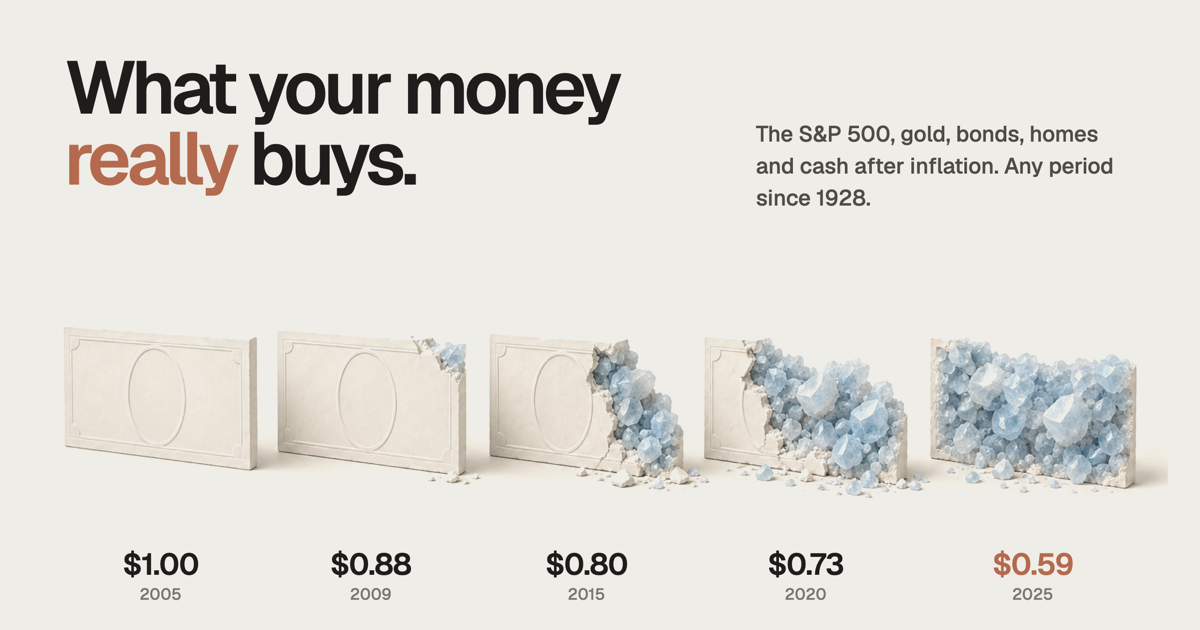
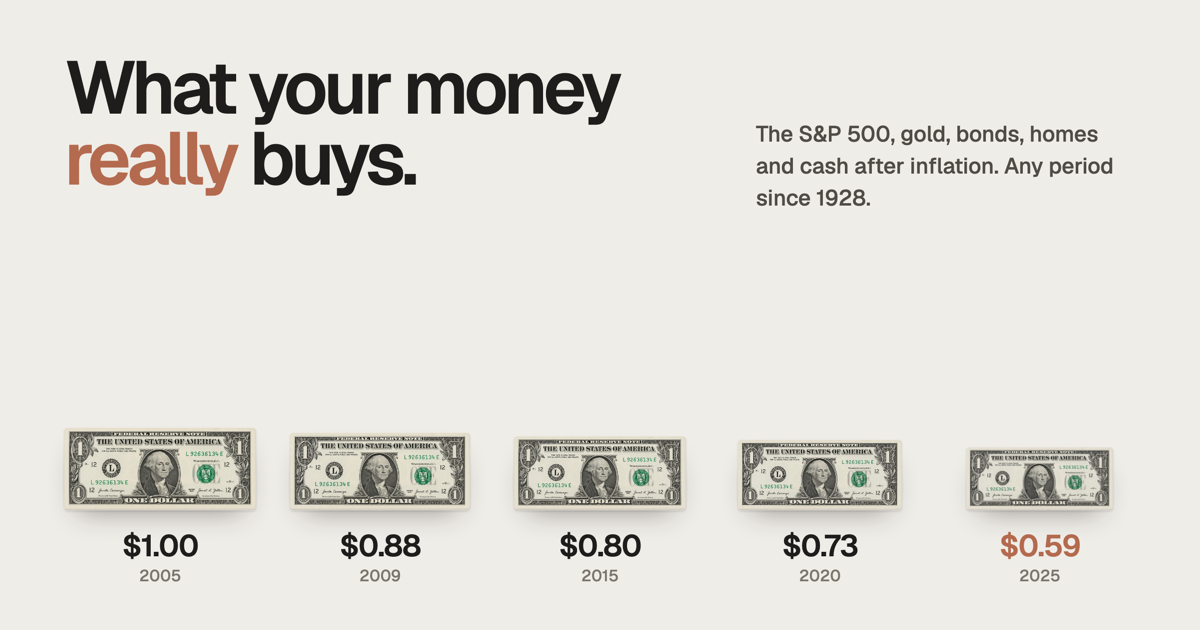
Hero: real dollar bills that shrink with buying power
Replace the plaster-and-crystal banknote image with one photorealistic
one-dollar bill (generated with Codex, published at 600 px wide), shown
five times. Each bill's area equals what one dollar from the start year
still buys at that point in the chosen period, and it loses a little
color as it loses value. The bills resize when the period changes.

Changed region(s): [[0.0308, 0.5429, 0.9867, 0.9651], [0.0617, 0.5127, 0.0925, 0.5429]]

diff --git a/index.html b/index.html
@@ -77,16 +77,15 @@
                 <p class="intro" id="introText">Prices rose 70% from 2005 to 2025. A dollar kept as cash lost 41% of its buying power. Here is what kept up.</p>
             </div>
             <figure class="sequence">
-                <img id="heroImg" src="assets/img/sequence.jpg" srcset="assets/img/sequence-800.jpg 800w, assets/img/sequence.jpg 1536w" sizes="(max-width: 1080px) 100vw, 1016px" width="1536" height="380" alt="Five white plaster banknotes in a row. The first is whole; each next one has eroded more into pale blue crystal, until the last is almost all crystal.">
-                <!-- What one dollar from the start year buys at five points in the period, one under each note. -->
-                <ol class="dollar-steps" id="dollarSteps" aria-label="What one dollar buys over the period">
-                    <li style="left: 11.3%"><strong>$1.00</strong><span>2005</span></li>
-                    <li style="left: 29.8%"><strong>$0.88</strong><span>2009</span></li>
-                    <li style="left: 48.8%"><strong>$0.81</strong><span>2014</span></li>
-                    <li style="left: 68.1%"><strong>$0.73</strong><span>2020</span></li>
-                    <li style="left: 88.1%"><strong>$0.59</strong><span>2025</span></li>
+                <!-- One dollar bill at five points in the period. Each bill's area is what one dollar from the start year still buys. -->
+                <ol class="dollar-steps" id="dollarSteps" aria-label="What one dollar from 2005 buys over time">
+                    <li style="--s: 1.000"><span class="bill-slot"><img class="bill" src="assets/img/dollar.jpg" alt="" width="600" height="258"></span><strong>$1.00</strong><span class="step-year">2005</span></li>
+                    <li style="--s: 0.939"><span class="bill-slot"><img class="bill" src="assets/img/dollar.jpg" alt="" width="600" height="258"></span><strong>$0.88</strong><span class="step-year">2009</span></li>
+                    <li style="--s: 0.896"><span class="bill-slot"><img class="bill" src="assets/img/dollar.jpg" alt="" width="600" height="258"></span><strong>$0.80</strong><span class="step-year">2015</span></li>
+                    <li style="--s: 0.855"><span class="bill-slot"><img class="bill" src="assets/img/dollar.jpg" alt="" width="600" height="258"></span><strong>$0.73</strong><span class="step-year">2020</span></li>
+                    <li style="--s: 0.766"><span class="bill-slot"><img class="bill" src="assets/img/dollar.jpg" alt="" width="600" height="258"></span><strong>$0.59</strong><span class="step-year">2025</span></li>
                 </ol>
-                <figcaption class="sequence-caption" id="seqCaption">One dollar at the start of 2005, and what it buys at the end of each year shown.</figcaption>
+                <figcaption class="sequence-caption" id="seqCaption">One dollar at the start of 2005, and what it buys at the end of each year shown. Each bill's size matches its buying power.</figcaption>
             </figure>
         </section>
 

diff --git a/assets/styles.css b/assets/styles.css
@@ -154,23 +154,25 @@ a { color: inherit; }
 .intro { font-size: 19px; line-height: 1.55; color: var(--ink-2); max-width: 36ch; padding-bottom: 8px; }
 @media (max-width: 860px) { .intro { margin-top: 22px; } }
 
-.sequence { margin-top: 28px; }
-/* The photo's studio wall is lifted to white and multiplied onto the page, so the notes stand on the page itself. */
-#heroImg {
-    display: block; width: 100%; height: auto;
-    filter: brightness(1.11) contrast(1.04); mix-blend-mode: multiply;
-    -webkit-mask-image: linear-gradient(transparent, #000 10%, #000 90%, transparent);
-    mask-image: linear-gradient(transparent, #000 10%, #000 90%, transparent);
+.sequence { margin-top: 40px; }
+/* Five bills on one baseline. --s is the bill's linear scale (square root of its buying power). */
+.dollar-steps {
+    list-style: none; display: grid; grid-template-columns: repeat(5, minmax(0, 1fr));
+    gap: clamp(10px, 2.4vw, 28px); align-items: end;
 }
-:root[data-theme="dark"] #heroImg { filter: none; mix-blend-mode: normal; border-radius: 24px; -webkit-mask-image: none; mask-image: none; }
-@media (prefers-color-scheme: dark) {
-    :root:not([data-theme="light"]) #heroImg { filter: none; mix-blend-mode: normal; border-radius: 24px; -webkit-mask-image: none; mask-image: none; }
+.dollar-steps li { display: grid; justify-items: center; }
+.bill-slot { width: 100%; aspect-ratio: 600 / 258; display: flex; align-items: flex-end; justify-content: center; }
+.bill {
+    display: block; width: calc(var(--s) * 100%); height: auto; border-radius: 3px;
+    box-shadow: 0 1px 2px rgba(30, 26, 20, 0.14), 0 14px 28px -14px rgba(30, 26, 20, 0.45);
+    /* The bill loses a little color as it loses value. */
+    filter: saturate(calc(0.35 + 0.65 * var(--s) * var(--s)));
+    transition: width 0.6s cubic-bezier(0.2, 0.8, 0.2, 1), filter 0.6s ease;
 }
-.dollar-steps { list-style: none; position: relative; height: 52px; margin-top: 4px; }
-.dollar-steps li { position: absolute; transform: translateX(-50%); display: grid; justify-items: center; font-variant-numeric: tabular-nums; }
-.dollar-steps strong { font-size: clamp(16px, 2.2vw, 24px); font-weight: 600; letter-spacing: -0.03em; }
+@media (prefers-reduced-motion: reduce) { .bill { transition: none; } }
+.dollar-steps strong { margin-top: 14px; font-size: clamp(16px, 2.2vw, 24px); font-weight: 600; letter-spacing: -0.03em; font-variant-numeric: tabular-nums; }
 .dollar-steps li:last-child strong { color: var(--accent); }
-.dollar-steps span { font-size: 13px; color: var(--muted); }
+.step-year { font-size: 13px; color: var(--muted); font-variant-numeric: tabular-nums; }
 .sequence-caption { text-align: center; font-size: 13px; color: var(--muted); margin-top: 6px; }
 
 /* Controls: amount and period */

diff --git a/assets/app.js b/assets/app.js
@@ -172,12 +172,15 @@
         let cpi = 1, y = from;
         years.forEach((year, k) => {
             if (k > 0) for (; y <= year; y++) cpi *= 1 + D.inflation[idx(y)];
+            // Area, not width, follows the value, so the picture does not exaggerate the loss.
+            items[k].style.setProperty('--s', Math.sqrt(Math.min(1, 1 / cpi)).toFixed(3));
             items[k].querySelector('strong').textContent = '$' + (1 / cpi).toFixed(2);
-            items[k].querySelector('span').textContent = String(year);
+            items[k].querySelector('.step-year').textContent = String(year);
         });
+        $('#dollarSteps').setAttribute('aria-label', `What one dollar from ${from} buys over time`);
         $('#seqCaption').textContent = from === to
-            ? `One dollar at the start of ${from}, and what it buys at the end of the year.`
-            : `One dollar at the start of ${from}, and what it buys at the end of each year shown.`;
+            ? `One dollar at the start of ${from}, and what it buys at the end of the year. Each bill's size matches its buying power.`
+            : `One dollar at the start of ${from}, and what it buys at the end of each year shown. Each bill's size matches its buying power.`;
     }
 
     function renderIntro(cash) {
